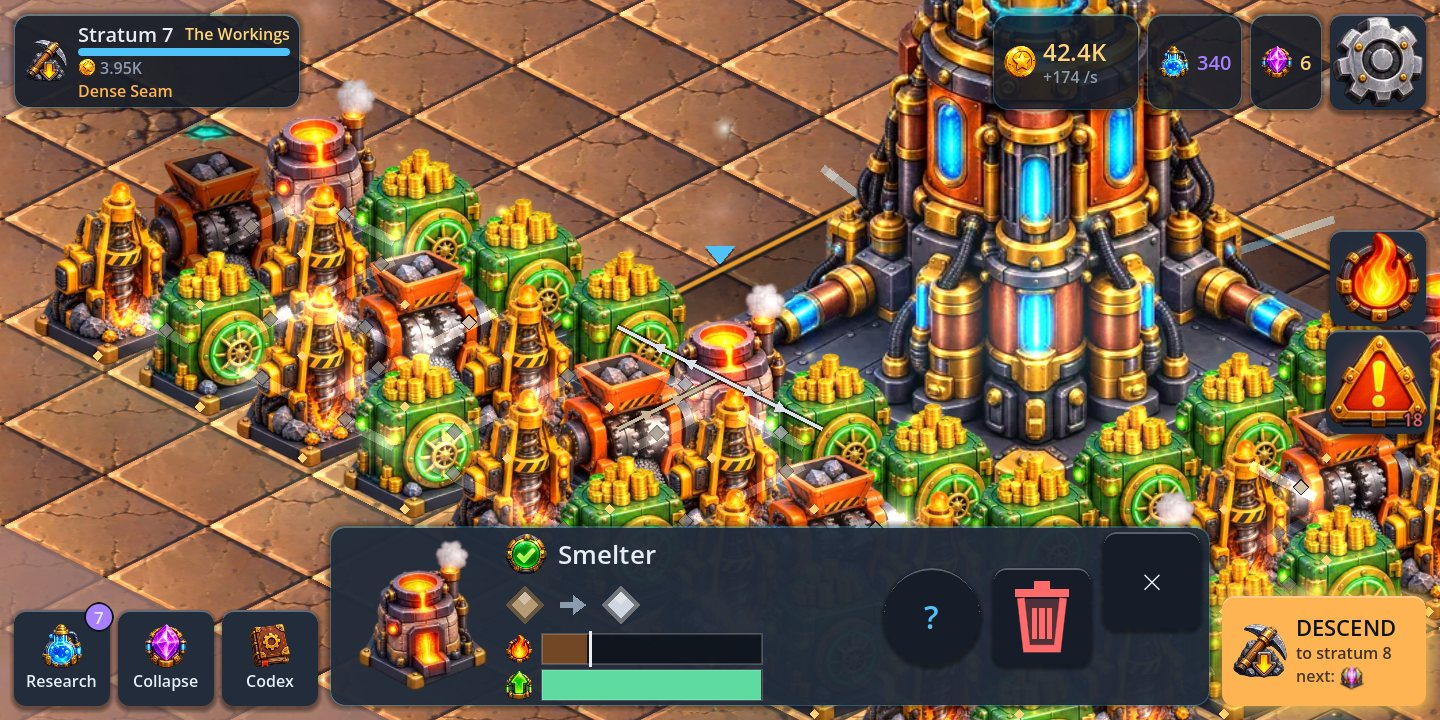
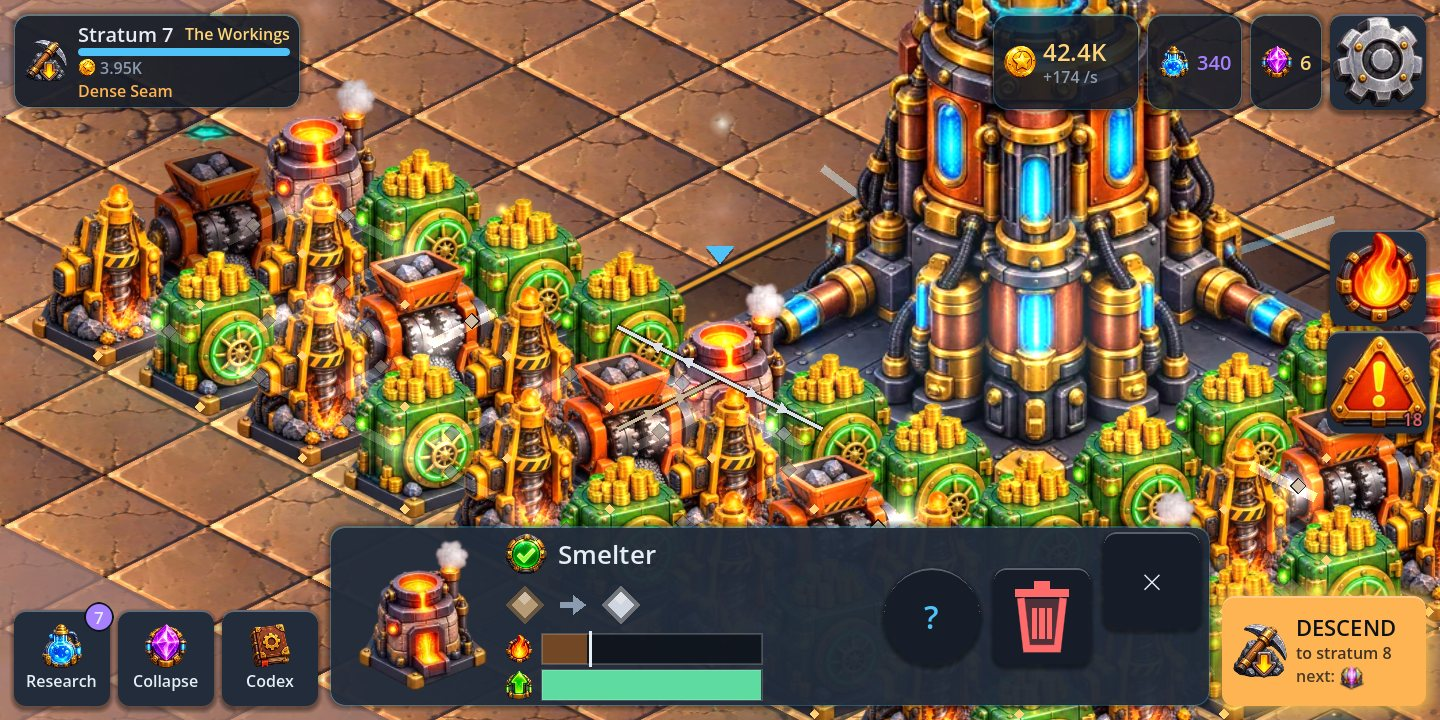
Fill green the tiles where an armed machine would be fed and could hand its work on
While a machine was armed, every empty tile touching a machine was
outlined alike. Now the tiles where it would actually be connected both
ways are filled green: put it there and it works. Simulation.
links_if_placed asks the rule material moves by (_takers) before the
machine exists; a test places every machine on every candidate tile of
twelve random boards (4,476 placements) and checks the answer against
_takers on the real placement.

The captures now start from a new player's settings: an earlier capture
had left "Larger text" on in the save, and the README pictures of
c15708e were taken with it. They are taken again.

diff --git a/docs/DEVICE-TEST.md b/docs/DEVICE-TEST.md
@@ -117,6 +117,7 @@ Work down this list once. Each row has a criterion, not a vibe.
 | `researchcount` | earn some Research, watch the Research key, buy what it counts | a number sits on the key's corner the moment a line can be bought, it drops as you buy, and it is gone when nothing can be bought |
 | `text` | hold the phone at arm's length on the main screen | every word reads without bringing the phone closer: the captions under Research, Collapse and Codex, the credits per second, every price on the tray, the stratum's rules on its card, Descend's line. If one does not, note which: the floor is `main.TEXT_MIN`. Then turn on Settings, Accessibility, **Larger text**: every word grows at once, nothing overlaps, and the Codex opened after it has bigger words too |
 | `below` | before the quota, tap Descend; then hold it; then, with the quota met, tap it | the first two open the next stratum -- its rules with arrows on the machines they move, the new machines, the yard it adds -- and go nowhere; the last goes down at once |
+| `works` | arm a Vault next to a running Drill; then arm a Crusher | green tiles sit exactly where the armed machine would be fed and could sell -- beside the Drill for the Vault; for the Crusher only a tile touching both a Drill and a buyer -- and placing it on one gets it running within a few seconds |
 | `production` | watch a working chain for thirty seconds | beads visibly ride the seams between machines; working machines breathe and glow; a machine you starve goes dark within a second or two |
 | `status` | break a chain by selling one machine | within about two seconds a red badge appears on the machine downstream (starved) and an amber one where the jam starts upstream (backed up) -- not on every machine behind it -- and the count on the warning key changes |
 | `heat` | tap **Heat** | every occupied tile shows a signed number; the numbers change when you add a Boiler; empty tiles show absolute heat only where it differs from ambient |

diff --git a/docs/AUDIT.md b/docs/AUDIT.md
@@ -1412,6 +1412,34 @@ Three texts said more than the game does:
   survives a collapse". Every researched upgrade survives too. The README
   said the same. Both are corrected.
 
+### Where a machine would work, while it is being placed
+
+The whole game is adjacency: a machine works when something beside it
+feeds it and something beside it takes what it makes. While a machine was
+armed, the board outlined every empty yard tile that touched a machine,
+whether or not placing it there would connect it. Now the tiles where the
+armed machine would be fed and could hand its work on are filled green.
+Put it there and it works.
+
+The answer is `Simulation.links_if_placed`. It asks the same rule the
+simulation moves material by (`_takers`: a Vault takes anything, anything
+else what it has as an input, and a support tile passes it through)
+before the machine exists. A test places every machine on every
+candidate tile of twelve random boards (4,476 placements). It then asks
+`_takers` of the real placement, and the answers must agree. A support
+machine keeps its own mark ("serves N"). The set is worked out again only
+when the armed machine or the board changes. On the hero board an armed
+Vault has 15 such tiles and an armed Crusher none: no empty tile there
+touches both a Drill and a buyer, and a green tile would be a promise the
+board cannot keep (`field_n_linked`).
+
+**The captures now start from a new player's settings.** An earlier
+capture turned on "Larger text" and the save kept it. The next captures,
+including the README pictures committed in `c15708e`, were taken with
+larger text. `tools/screenshot.gd` now clears the switches a capture may
+flip before it starts, and saves the setting back as it found it. The
+README pictures were taken again.
+
 ### Follow-ups from the audits
 
 - **Resource nodes with a use**: needs the owner's decision (above).

diff --git a/docs/CI.md b/docs/CI.md
@@ -54,7 +54,7 @@ godot --headless --path . --import
 
 | job | what it proves |
 |---|---|
-| tests | the unit suite (289 tests at the time of writing), the device self test's non-hardware rows, the balance, layout, journey, strategy and money tools, Play readiness (with a check that the data-safety form still matches the code), **the landscape layout on eleven screen shapes and three safe areas**, and **the art budget** (fails over 40 MB or on a picture with no recorded source) |
+| tests | the unit suite (290 tests at the time of writing), the device self test's non-hardware rows, the balance, layout, journey, strategy and money tools, Play readiness (with a check that the data-safety form still matches the code), **the landscape layout on eleven screen shapes and three safe areas**, and **the art budget** (fails over 40 MB or on a picture with no recorded source) |
 | screenshots render | the store screenshots at 1920x1080 and **the four audit screens** (main, zoomed, whole world, one machine) from the running game |
 | readability | every machine sprite distinguishable from every other at 44/72/110 px, in colour and greyscale, for the free palette and Slate |
 | ui smoke | the real game boots and its screens open, at 1440x720, 1920x1080, 2400x1080, 1280x720 and the portrait windows 720x1440 and 360x720 |

diff --git a/README.md b/README.md
@@ -212,7 +212,7 @@ delete in week one.
 
 ```bash
 godot --path . --resolution 1440x720                              # play it
-godot --headless --path . --script res://tests/test_runner.gd     # 289 tests
+godot --headless --path . --script res://tests/test_runner.gd     # 290 tests
 godot --headless --path . tools/layout_check.tscn                 # 11 screen shapes x 3 safe areas
 godot --path . --resolution 1440x720 tools/perf_probe.tscn        # frame times, draw calls, memory
 godot --headless --path . --script res://tools/selftest_cli.gd    # the device self test, minus the device
@@ -300,7 +300,7 @@ scripts/ui/iso/   the world: projection, camera, badges, art lookup, and
                   sell / pan / zoom
 scripts/ui/       the landscape HUD, Codex, shop, diagnostics
 assets/art/       the generated art and layout.json; art_src/ its sources
-tests/            289 tests, no framework dependency
+tests/            290 tests, no framework dependency
 tools/            store assets, balance scoring, layout search, the self test
                   CLI, the plugin installer and the Android build script
 .github/          tests and screenshots on every push; the Android export runs
